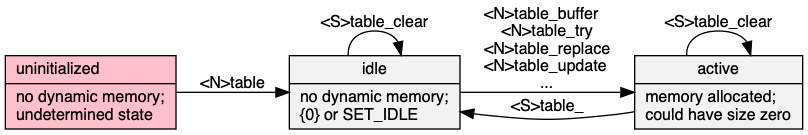
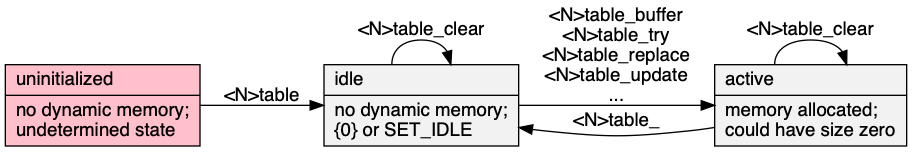
Consitent diagrams.

Changed region(s): [[0.0, 0.0296, 1.0, 0.9778], [0.6188, 0.7407, 0.7116, 0.8296], [0.4332, 0.4741, 0.495, 0.563]]

diff --git a/readme.html b/readme.html
@@ -185,7 +185,7 @@
 
 <p><code>enum <strong>table_result</strong> { TABLE_RESULT };</code></p>
 
-<p>A result of modifying the table, of which <code>TABLE_ERROR</code> is false. <img alt = "A diagram of the result states." src = "web/put.png" width = 657 height = 305></p>
+<p>A result of modifying the table, of which <code>TABLE_ERROR</code> is false. <img alt = "A diagram of the result states." src = "web/put.png" width = 735 height = 321></p>
 
 </div>
 
@@ -207,7 +207,7 @@
 
 <p>To initialize, see <a href = "#fn:&lt;N&gt;table">&lt;N&gt;table</a>, <code>TABLE_IDLE</code>, <code>{0}</code> (<code>C99</code>,) or being <code>static</code>. The fields should be treated as read-only; any modification is liable to cause the table to go into an invalid state.</p>
 
-<p><img alt = "States." src = "web/states.png" width = 808 height = 135></p>
+<p><img alt = "States." src = "web/states.png" width = 912 height = 152></p>
 
 </div>
 
@@ -217,7 +217,7 @@
 
 <p><code>struct <strong>&lt;N&gt;table_iterator</strong>;</code></p>
 
-<p><img alt = "States" src = "web/it.png" width = 832 height = 109></p>
+<p><img alt = "States" src = "web/it.png" width = 943 height = 117></p>
 
 <p>Adding, deleting, successfully looking up entries, or any modification of the table's topology causes the iterator to become invalid. Use <a href = "#fn:&lt;N&gt;table_iterator_remove">&lt;N&gt;table_iterator_remove</a> to avoid this. For tables that can have zero as a valid value, <a href = "#fn:&lt;N&gt;table_has_next">&lt;N&gt;table_has_next</a> can differentiate between them. Iteration usually not in any particular order. The asymptotic runtime of iterating though the whole table is proportional to the capacity.</p>
 
